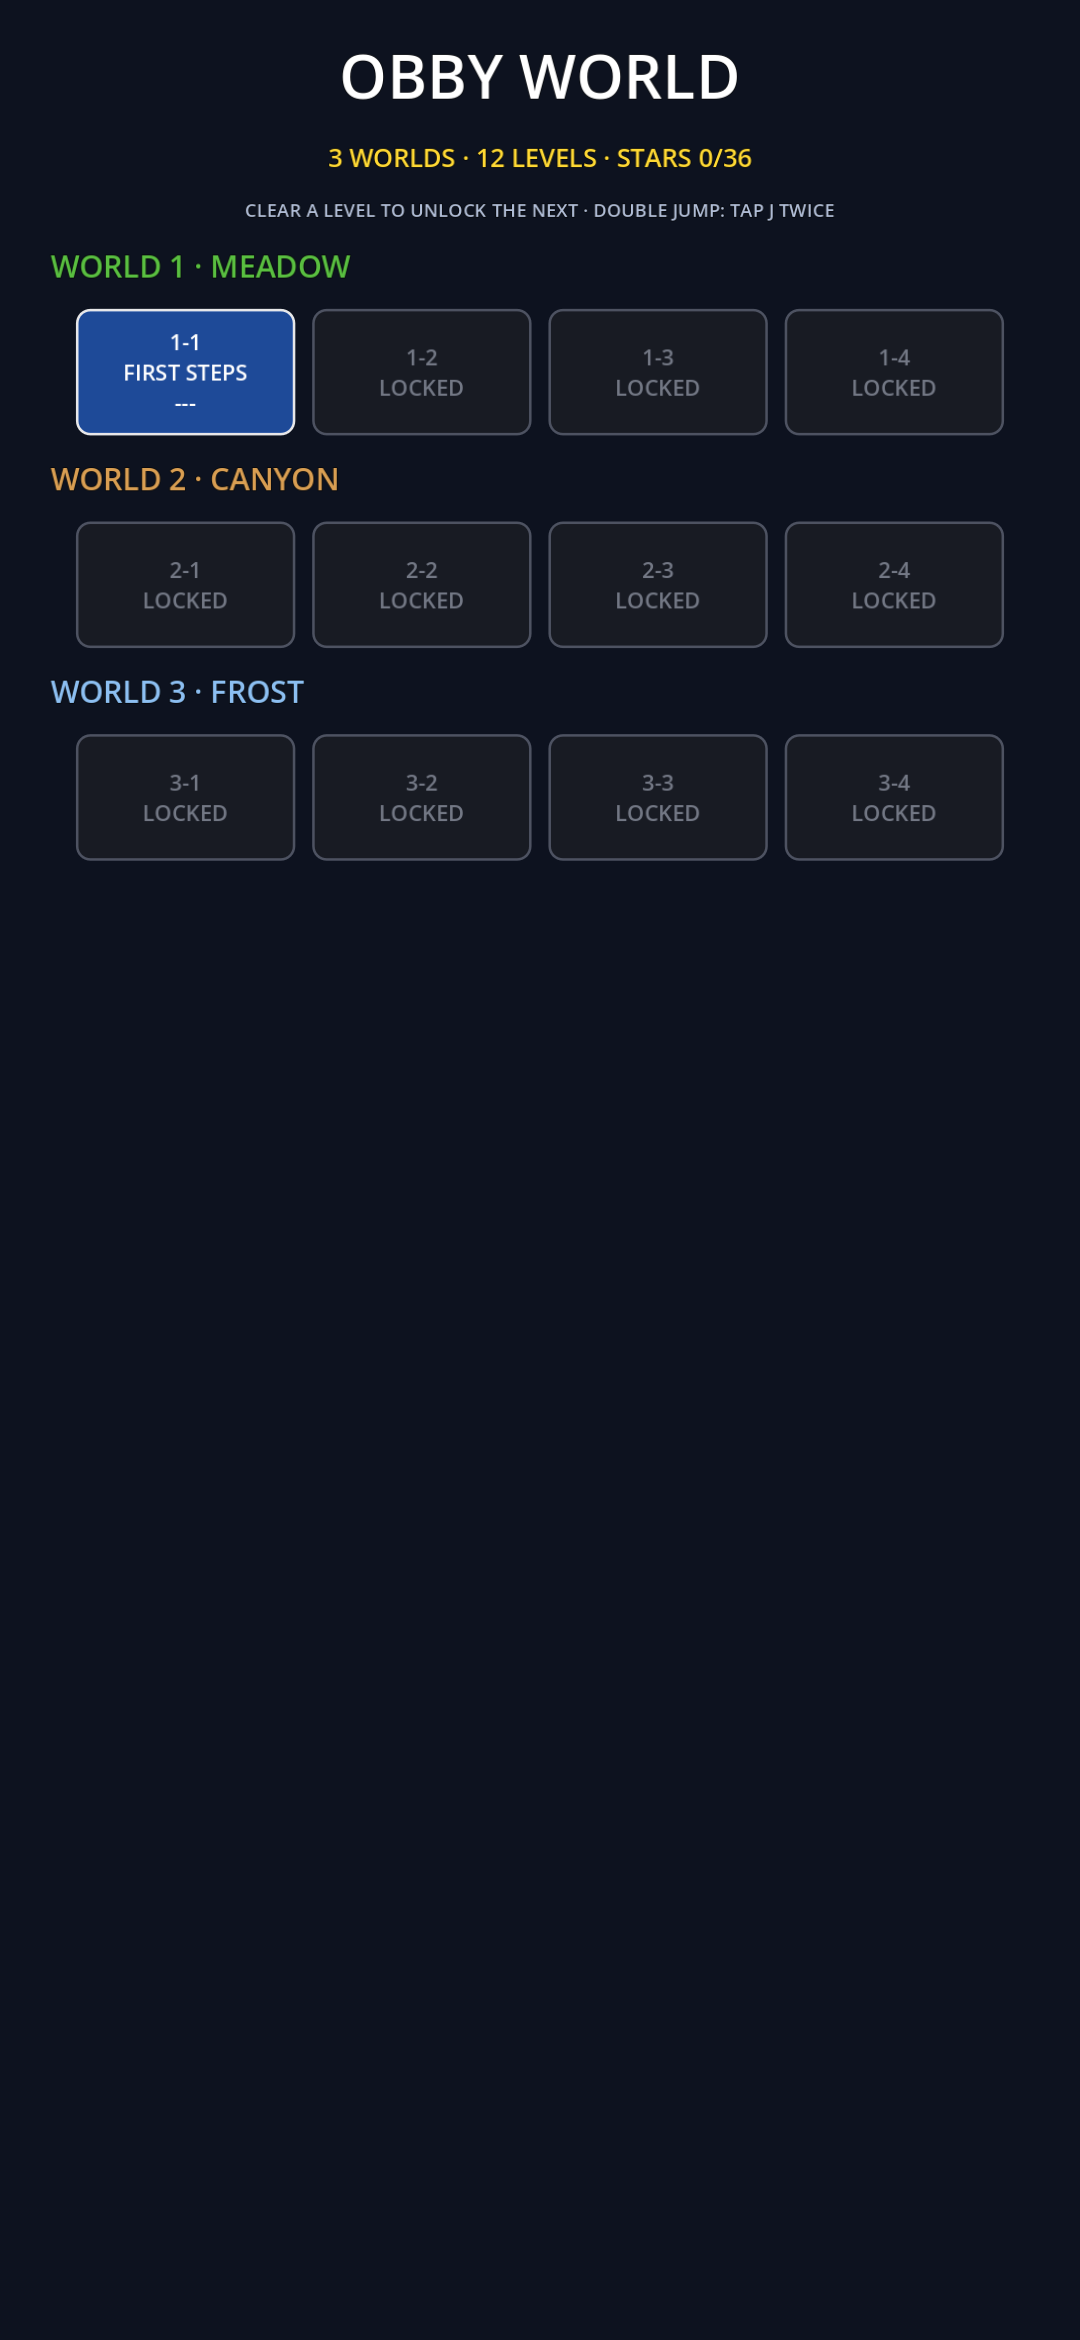
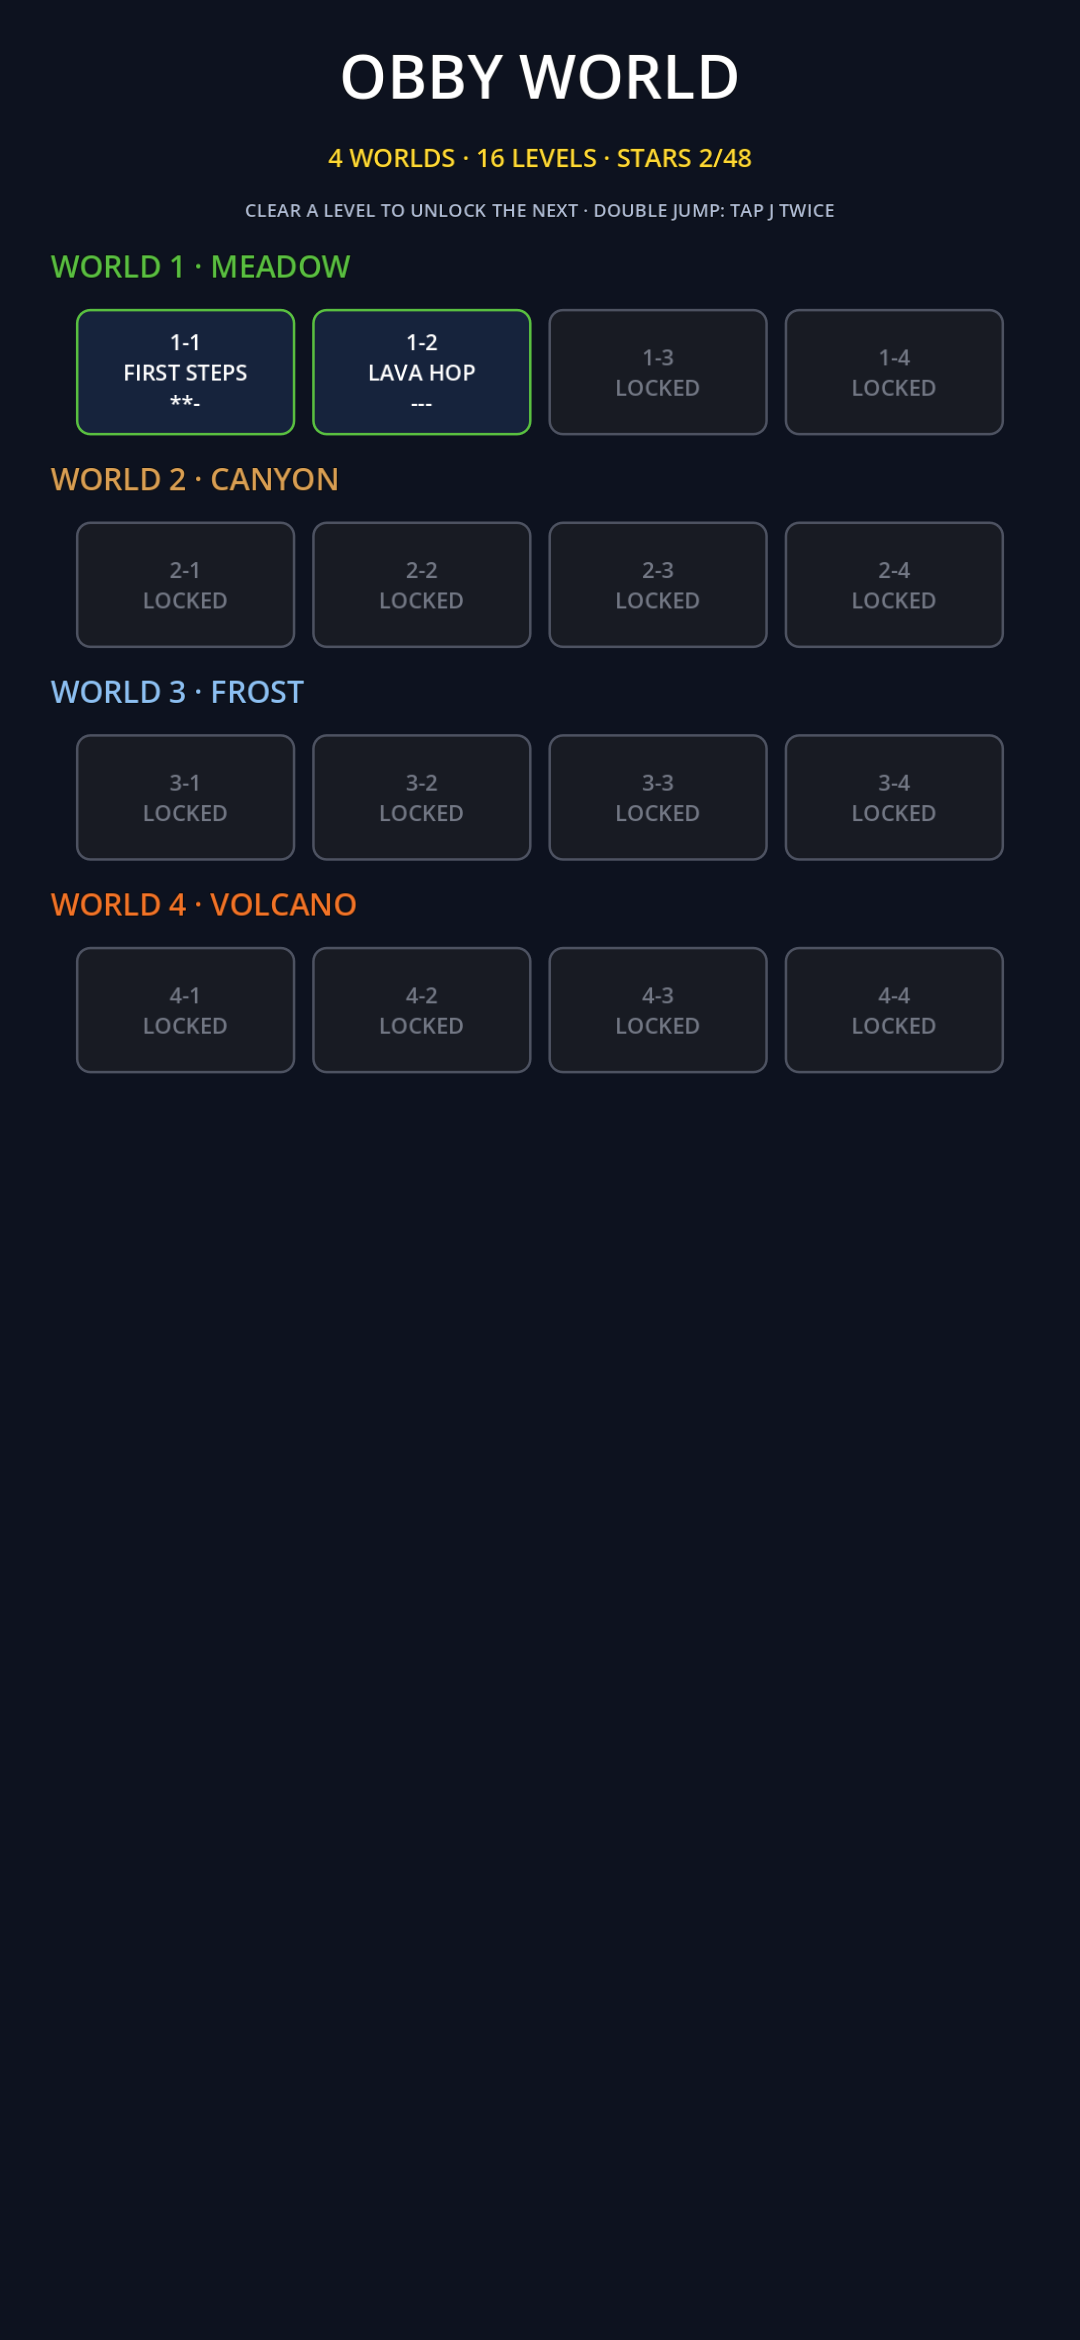
002-obby v0.2.0: World 4 VOLCANO + 4 levels (12->16), headless 16/16 clear 0 falls, A54 device-verified

diff --git a/README.md b/README.md
@@ -1,10 +1,10 @@
 # 002 · Obby World
 
 Roblox-style block obstacle course ("obby") for Android, built with Godot 4.7.
-Omnidirectional joystick movement + double jump across 12 handcrafted levels
-in 3 themed worlds, with checkpoints, coins, par times and a 3-star rating.
+Omnidirectional joystick movement + double jump across 16 handcrafted levels
+in 4 themed worlds, with checkpoints, coins, par times and a 3-star rating.
 
-Status: playable (v0.1.0)
+Status: playable (v0.2.0)
 Engine: Godot 4.7.2 (GL Compatibility)
 Platform: Android (arm64-v8a), portrait
 
@@ -12,6 +12,7 @@ Part of the [cykgames](https://github.com/cykgames) catalog.
 
 ![level select](docs/screenshots/level_select.png)
 ![gameplay](docs/screenshots/gameplay_checkpoint.png)
+![volcano world](docs/screenshots/volcano_gameplay.png)
 ![level clear](docs/screenshots/level_clear.png)
 
 ## Controls
@@ -25,7 +26,7 @@ Part of the [cykgames](https://github.com/cykgames) catalog.
 
 ## Gameplay
 
-- 3 worlds x 4 levels = 12 levels, sequential unlock (clear a level to open
+- 4 worlds x 4 levels = 16 levels, sequential unlock (clear a level to open
   the next). Progress (stars / best time / coins) persists in `user://progress.json`.
 - Stars: 1 for clearing, +1 for collecting every coin, +1 for finishing under par.
 - Checkpoints: flag beacons turn green when reached; falling into lava or the
@@ -41,6 +42,7 @@ Part of the [cykgames](https://github.com/cykgames) catalog.
 | 1 Meadow | First Steps, Lava Hop, Bounce House, Moving On | grass / blue sky |
 | 2 Canyon | Vanish Path, Spin Zone, Ice Slide, Canyon Mix | sandstone / sunset |
 | 3 Frost | Frost Vanish, Sky Spin, Lava Gauntlet, Final Climb | ice / night sky |
+| 4 Volcano | Ember Hop, Magma Run, Crumble Peak, Eruption | basalt / lava glow |
 
 Levels are data-driven: `LevelGen.gd` holds a `LEVELS` table of path steps
 (`P` pad, `G` gap, `L` lava, `M` mover, `B` bounce, `V` vanish, `S` spinner,

diff --git a/docs/CHECKPOINT.md b/docs/CHECKPOINT.md
@@ -1,6 +1,25 @@
 # 002-obby — Build Checkpoint (2026-11-15)
 
-## Status: playable v0.1.0, 12/12 levels, published to cykgames/002-obby
+## Status: playable v0.2.0, 16/16 levels (4 worlds), published to cykgames/002-obby
+
+## v0.2.0 — World 4 VOLCANO (2026-11-15)
+
+- Content expansion: 12 -> 16 levels, 3 -> 4 worlds. New VOLCANO theme
+  (dark basalt terrain, glowing lava-red sky) + 4 levels: EMBER HOP (par 70),
+  MAGMA RUN (75), CRUMBLE PEAK (80), ERUPTION (90). Data-only addition to
+  LevelGen LEVELS/THEMES; no physics/engine changes.
+- Game.gd LEVEL_COUNT 16 / WORLD_COUNT 4; LevelSelect 4th world name/color,
+  subtitle now dynamic (WORLD_COUNT / LEVEL_COUNT / LEVEL_COUNT*3).
+- Headless regression build/regression5.log: 16/16 FINAL, 0 falls every level,
+  ALL_LEVELS_DONE, no errors. World 4: EMBER HOP / CRUMBLE PEAK 3-star,
+  MAGMA RUN / ERUPTION 2-star (bot coin-skip on mover/bounce, same as worlds 1-3).
+- On-device A54 (USB): install Success; select shows 4 worlds / 16 levels /
+  STARS x/48; VOLCANO theme renders (basalt + lava + red sky); EMBER HOP plays
+  (TIME running, no crash); sequential unlock verified via a temporary save
+  (original save restored afterward). Shots: docs/screenshots/level_select.png
+  (4 worlds), volcano_gameplay.png.
+- APK 31.3 MB arm64 debug-signed; release v0.2.0.
+- A57 gameplay still pending owner unlock (device offline this session).
 
 ## What was built
 
